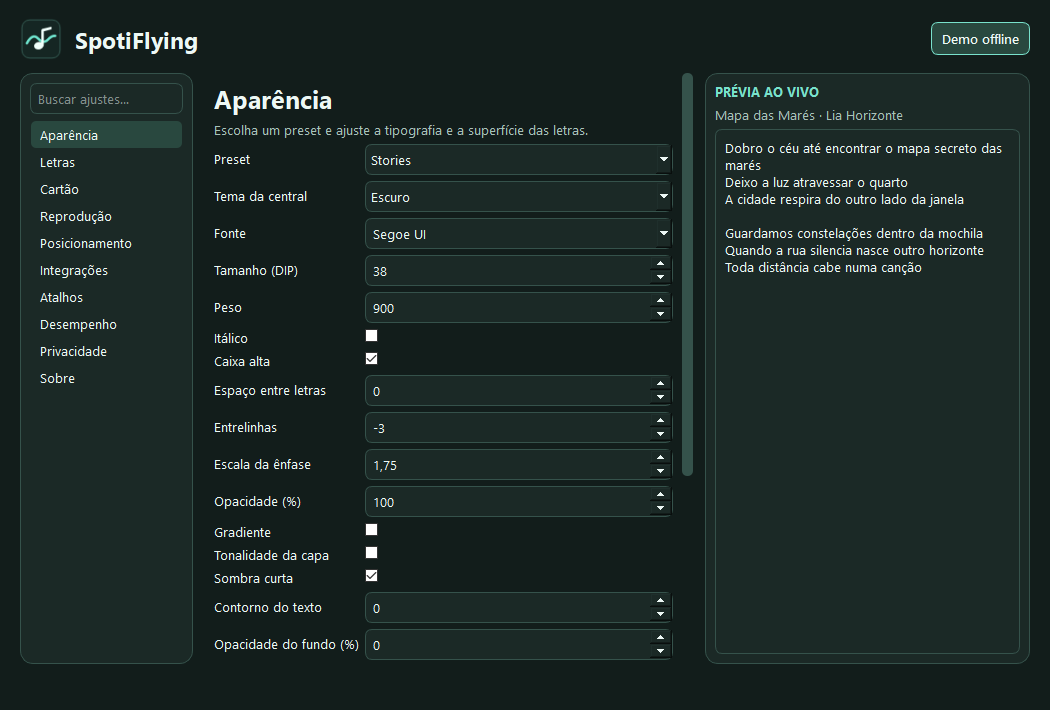
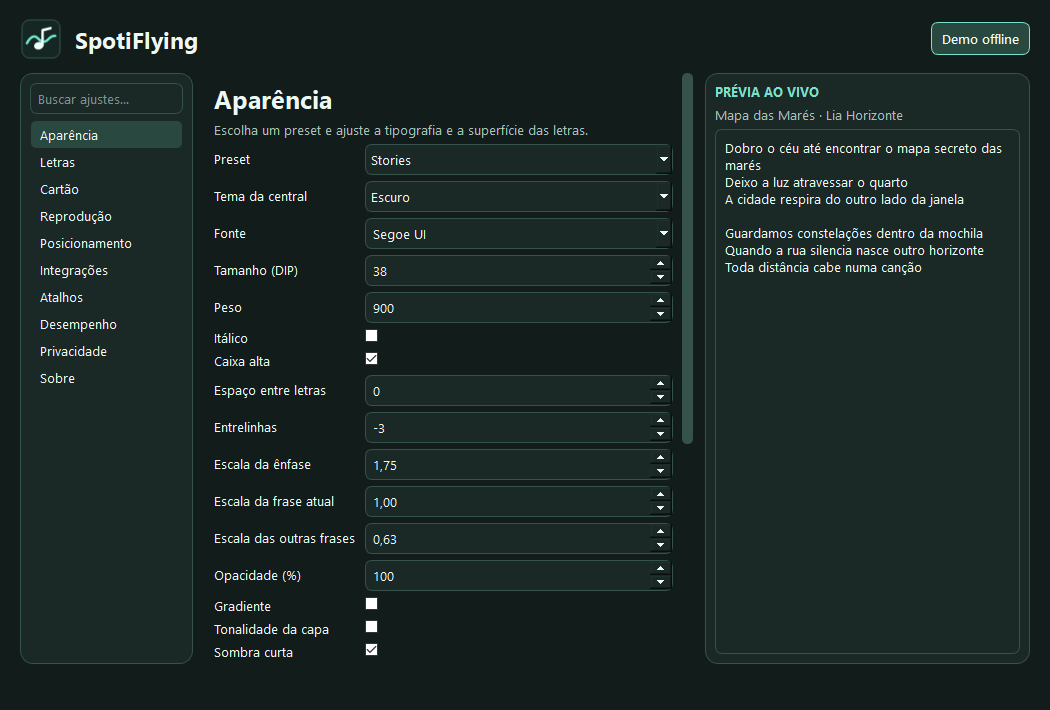
Document verified downloads and capture the published executable

diff --git a/README.md b/README.md
@@ -8,9 +8,9 @@ Letras sincronizadas sobre o desktop e um cartão independente para a faixa atua
 
 Veja os downloads em [Releases](https://github.com/GuiPaicheco/SpotiFlying/releases). Os arquivos locais gerados pelo build ficam em `release/`.
 
-- **Instalador** · Execute `SpotiFlying-Setup-x64.exe`. A instalação é por usuário em `%LOCALAPPDATA%\Programs\SpotiFlying`. Remova pelo painel Aplicativos do Windows.
-- **Portátil** · Extraia `SpotiFlying-Portable-x64.zip` por completo. Abra `SpotiFlying.exe` na pasta extraída. Mantenha a pasta de dependências junto ao executável.
-- **Integridade** · Use `Get-FileHash -Algorithm SHA256` no arquivo baixado e compare com `SHA256SUMS.txt`. Builds sem assinatura podem acionar o SmartScreen.
+- **Instalador** · Execute o instalador para instalar por usuário em `%LOCALAPPDATA%\Programs\SpotiFlying`. Remova pelo painel Aplicativos do Windows. [Baixar instalador x64](https://github.com/GuiPaicheco/SpotiFlying/releases/download/v1.0.0/SpotiFlying-Setup-x64.exe)
+- **Portátil** · Extraia o ZIP por completo. Abra `SpotiFlying.exe` na pasta extraída e mantenha as dependências junto ao executável. [Baixar ZIP x64](https://github.com/GuiPaicheco/SpotiFlying/releases/download/v1.0.0/SpotiFlying-Portable-x64.zip)
+- **Integridade** · Use `Get-FileHash -Algorithm SHA256` no arquivo baixado e compare com o manifesto. Builds sem assinatura podem acionar o SmartScreen. [Baixar manifesto SHA-256](https://github.com/GuiPaicheco/SpotiFlying/releases/download/v1.0.0/SHA256SUMS.txt)
 
 ## Primeiros passos
 
@@ -21,7 +21,7 @@ Veja os downloads em [Releases](https://github.com/GuiPaicheco/SpotiFlying/relea
 
 ## Capturas
 
-Capturas da demo original, com dados fictícios. Consulte a [matriz de verificação](docs/TECHNICAL.md).
+Capturas do executável publicado em v1.0.0, com dados fictícios. Consulte a [matriz de verificação](docs/TECHNICAL.md).
 
 ![Stories e cartão passivo](docs/screenshots/stories.png)
 

diff --git a/docs/TECHNICAL.md b/docs/TECHNICAL.md
@@ -31,8 +31,10 @@ O ambiente local foi Windows 10 Pro 22H2 x64, build 19045, Intel Core i3-6100T, 
 | --- | --- |
 | Parser, matching, catálogo simulado, relógio, configuração e geometria | 13 testes automatizados |
 | Demo e janelas | Smoke de transparência, HWND, bandeja, pausa, seek e troca de faixa. Testes com escala Qt 100%, 125% e 150% |
-| Spotify Desktop real | Sessão `Spotify.exe` em reprodução com posição, duração e capa recebidas pelo aplicativo compilado |
+| Spotify Desktop real | Sessão `Spotify.exe` em reprodução com posição, duração e capa recebidas pelo executável publicado. Pausa e retomada confirmadas via WinRT |
 | Entrada em outro processo | Em um editor Qt independente, três eventos de clique passaram por glifo, área vazia e cartão passivo. Uma rolagem também chegou ao editor |
+| Interação e preferências | Atalho global, conflito, Esc, arraste, redimensionamento, 1/2/4/8 linhas, visibilidade dos itens, reordenação e restauração de Stories |
+| Pacotes da Release | Downloads pelas URLs públicas, SHA-256 correspondente, ZIP extraído e instalador executados com integridade média. O log do Inno confirmou instalação x64 sem modo administrativo. Desinstalação concluída |
 | Aparência | Capturas do executável com dados fictícios, em fundo escuro e claro, no cartão interativo e na central |
 | Matriz física pendente | Windows 11, máquina limpa de cliente, jogo em janela sem bordas, desconexão física de monitor e sessão Spotify sob suspensão ou reconexão |
 
